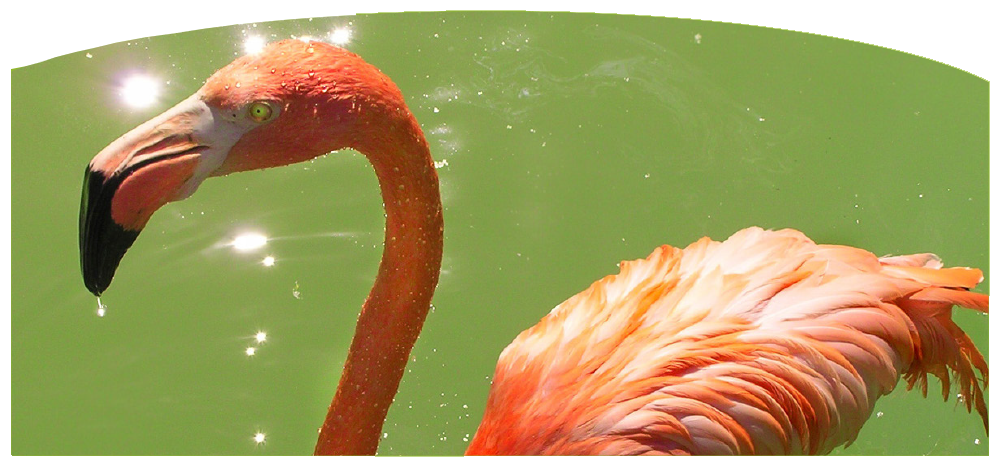
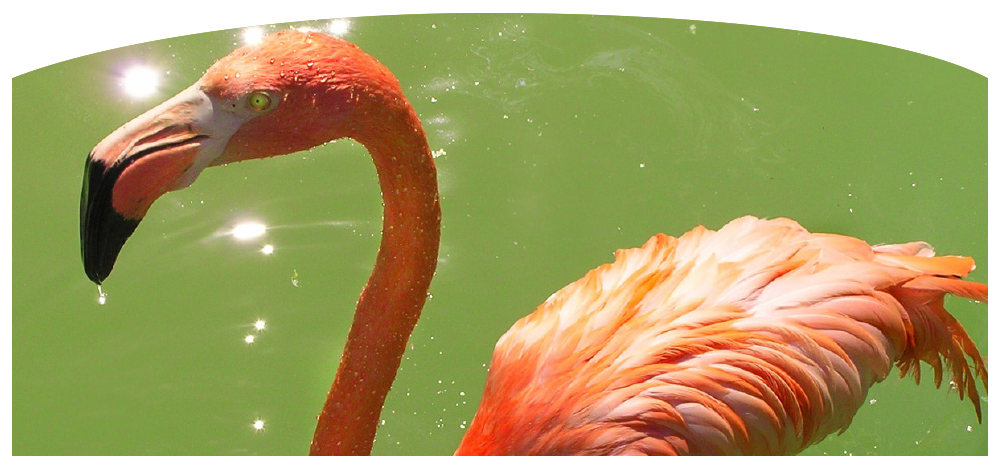
css

diff --git a/css/style.css b/css/style.css
@@ -128,7 +128,7 @@ a:link, a:visited, a:hover, a:active, a:focus {
 .flexslider{
 	background: url(images/bg-slide.png) no-repeat;
 	background-color: transparent;
-	margin: -75px 0 0;
+	margin: -70px 0 0;
 	border-radius: 0 0;
 }
 .thumbnail {
